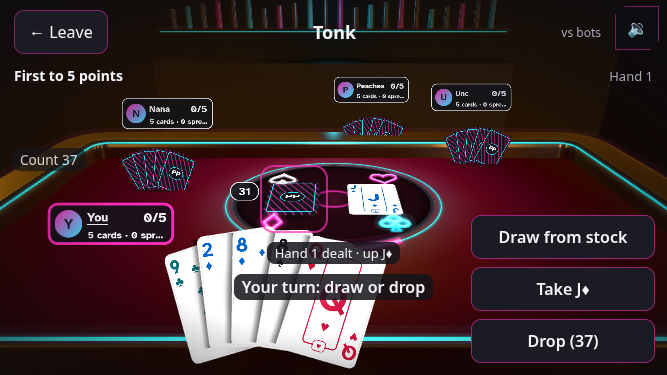
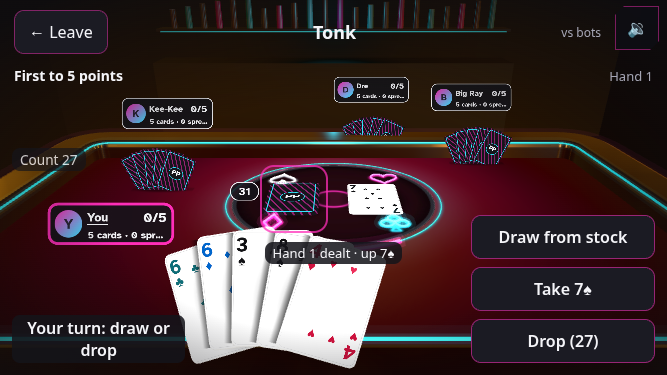
V10g-5: landscape status line to the free bottom-left corner (off the fan); refreshed landscape shots

diff --git a/apps/web/src/three3d/table3d.css b/apps/web/src/three3d/table3d.css
@@ -87,3 +87,7 @@ html[data-theme="B"] .table3d-layer::after { background: radial-gradient(ellipse
 @media (max-aspect-ratio: 3/4) {
   .mode-screen[data-renderer="3d"][data-hand3d="on"]:has(.my-hand.is-posed) .turn-line { position: fixed; left: 50%; top: calc(var(--t3d-fan-top, 70vh) - 8px); transform: translate(-50%, -100%); z-index: 3; margin: 0; max-width: calc(100vw - 24px); white-space: nowrap; overflow: hidden; text-overflow: ellipsis; }
 }
+/* V10g-5: landscape: the status line moves to the free bottom-left corner beside the fan */
+@media (min-aspect-ratio: 3/2) and (max-height: 500px) {
+  .mode-screen[data-renderer="3d"][data-hand3d="on"]:has(.my-hand.is-posed) .turn-line { position: fixed; left: 12px; bottom: 12px; z-index: 3; margin: 0; max-width: 26vw; white-space: normal; }
+}
